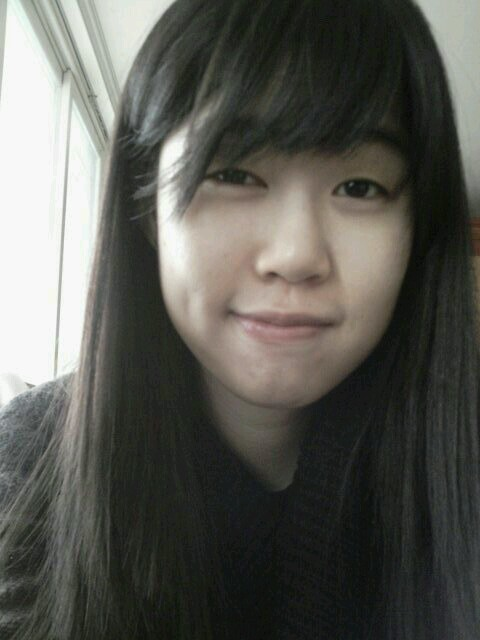
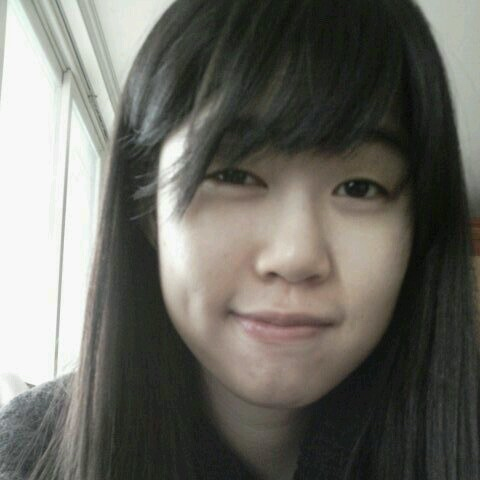
[PROJECT-WAR][1.0.0-SNAPSHOT][전경훈] [BT] SP-63 #time 1h #comment <main> -> <section> 태그 변경 및 프로필사진 사이즈변경 [RV] +review SR @sonhoseong

diff --git a/trunk/development-standard/standard-projects/project-war/src/main/webapp/committer.html b/trunk/development-standard/standard-projects/project-war/src/main/webapp/committer.html
@@ -461,7 +461,7 @@
 					</div>
 				</div>
 			</noscript>
-			<main id="template-customer-login-liquid" class="clearfix" role="main">
+			<section class="clearfix" >
 				<div class="container">
 					<div class="one-whole">
 						<p class="special-header animate-in" data-anim-type="fade-in" data-anim-delay="0">Comitter</p>
@@ -1114,7 +1114,7 @@
 						</div>
 					</div>
 				</div>
-			</main>
+			</section>
 			<footer>
 				<div id="footer" class="tm-larger animate-in" data-anim-type="fade-in" data-anim-delay="0">
 					<div class="container">
@@ -1164,7 +1164,6 @@
 											<span>Follow Us</span>
 										</h4>
 										<div class="content">
-											<p class="text"></p>
 											<div id="social-icons">
 												<span class="tip-t-fade" data-tooltip="Facebook"><a
 													href="http://www.facebook.com" target="_self"><i

diff --git a/trunk/development-standard/standard-projects/project-war/src/main/webapp/baroBoardDemo.html b/trunk/development-standard/standard-projects/project-war/src/main/webapp/baroBoardDemo.html
@@ -422,7 +422,7 @@
 					</div>
 				</div>
 			</noscript>
-			<main id="template-article-liquid" class="clearfix" role="main" itemscope itemtype="http://schema.org/Article"><nav>
+			<section class="clearfix" >
 					<div class="container bm-medium">
 						<div class="one-whole">
 							<div class="no-display">article</div>
@@ -446,7 +446,7 @@
 						</div>
 					</div>
 				</article>
-			</main>
+			</section>
 			<footer>
 				<div id="footer" class="tm-larger animate-in" data-anim-type="fade-in" data-anim-delay="0">
 					<div class="container">

diff --git a/trunk/development-standard/standard-projects/project-war/src/main/webapp/baroBoardLicence.html b/trunk/development-standard/standard-projects/project-war/src/main/webapp/baroBoardLicence.html
@@ -422,7 +422,7 @@
 					</div>
 				</div>
 			</noscript>
-			<main id="template-article-liquid" class="clearfix" role="main" itemscope itemtype="http://schema.org/Article">
+			<section class="clearfix" >
 				<nav>
 					<div class="container bm-medium">
 						<div class="one-whole">
@@ -633,7 +633,7 @@ limitations under the License.
 						</div>
 					</div>
 				</article>
-			</main>
+			</section>
 			<footer>
 				<div id="footer" class="tm-larger animate-in" data-anim-type="fade-in" data-anim-delay="0">
 					<div class="container">

diff --git a/trunk/development-standard/standard-projects/project-war/src/main/webapp/313DevALM.html b/trunk/development-standard/standard-projects/project-war/src/main/webapp/313DevALM.html
@@ -422,7 +422,7 @@
 					</div>
 				</div>
 			</noscript>
-			<main id="template-article-liquid" class="clearfix" role="main" itemscope itemtype="http://schema.org/Article">
+			<section class="clearfix" >
 				<nav>
 					<div class="container bm-medium">
 						<div class="one-whole">
@@ -474,7 +474,7 @@
 						</div>
 					</div>
 				</article>
-			</main>
+			</section>
 			<footer>
 				<div id="footer" class="tm-larger animate-in" data-anim-type="fade-in" data-anim-delay="0">
 					<div class="container">

diff --git a/trunk/development-standard/standard-projects/project-war/src/main/webapp/313DevCI.html b/trunk/development-standard/standard-projects/project-war/src/main/webapp/313DevCI.html
@@ -422,7 +422,7 @@
 					</div>
 				</div>
 			</noscript>
-			<main id="template-article-liquid" class="clearfix" role="main" itemscope itemtype="http://schema.org/Article">
+			<section class="clearfix" >
 				<nav>
 					<div class="container bm-medium">
 						<div class="one-whole">
@@ -484,7 +484,7 @@
 						</div>
 					</div>
 				</article>
-			</main>
+			</section>
 			<footer>
 				<div id="footer" class="tm-larger animate-in" data-anim-type="fade-in" data-anim-delay="0">
 					<div class="container">

diff --git a/trunk/development-standard/standard-projects/project-war/src/main/webapp/baroBoardConcept.html b/trunk/development-standard/standard-projects/project-war/src/main/webapp/baroBoardConcept.html
@@ -422,7 +422,7 @@
 					</div>
 				</div>
 			</noscript>
-			<main id="template-article-liquid" class="clearfix" role="main" itemscope itemtype="http://schema.org/Article">
+			<section class="clearfix" >
 				<nav>
 					<div class="container bm-medium">
 						<div class="one-whole">
@@ -447,7 +447,7 @@
 						</div>
 					</div>
 				</article>
-			</main>
+			</section>
 			<footer>
 				<div id="footer" class="tm-larger animate-in" data-anim-type="fade-in" data-anim-delay="0">
 					<div class="container">

diff --git a/trunk/development-standard/standard-projects/project-war/src/main/webapp/baroBoardDownload.html b/trunk/development-standard/standard-projects/project-war/src/main/webapp/baroBoardDownload.html
@@ -422,7 +422,7 @@
 					</div>
 				</div>
 			</noscript>
-			<main id="template-article-liquid" class="clearfix" role="main" itemscope itemtype="http://schema.org/Article">
+			<section class="clearfix" >
 				<nav>
 					<div class="container bm-medium">
 						<div class="one-whole">
@@ -447,7 +447,7 @@
 						</div>
 					</div>
 				</article>
-			</main>
+			</section>
 			<footer>
 				<div id="footer" class="tm-larger animate-in" data-anim-type="fade-in" data-anim-delay="0">
 					<div class="container">

diff --git a/trunk/development-standard/standard-projects/project-war/src/main/webapp/baroBoardFuction.html b/trunk/development-standard/standard-projects/project-war/src/main/webapp/baroBoardFuction.html
@@ -422,7 +422,7 @@
 					</div>
 				</div>
 			</noscript>
-			<main id="template-article-liquid" class="clearfix" role="main" itemscope itemtype="http://schema.org/Article">
+			<section class="clearfix" >
 				<nav>
 					<div class="container bm-medium">
 						<div class="one-whole">
@@ -447,7 +447,7 @@
 						</div>
 					</div>
 				</article>
-			</main>
+			</section>
 			<footer>
 				<div id="footer" class="tm-larger animate-in" data-anim-type="fade-in" data-anim-delay="0">
 					<div class="container">

diff --git a/trunk/development-standard/standard-projects/project-war/src/main/webapp/baroBoardOverView.html b/trunk/development-standard/standard-projects/project-war/src/main/webapp/baroBoardOverView.html
@@ -422,7 +422,7 @@
 					</div>
 				</div>
 			</noscript>
-			<main id="template-article-liquid" class="clearfix" role="main" itemscope itemtype="http://schema.org/Article">
+			<section class="clearfix" >
 				<nav>
 					<div class="container bm-medium">
 						<div class="one-whole">
@@ -549,7 +549,7 @@
 						</div>
 					</div>
 				</article>
-			</main>
+			</section>
 			<footer>
 				<div id="footer" class="tm-larger animate-in" data-anim-type="fade-in" data-anim-delay="0">
 					<div class="container">

diff --git a/trunk/development-standard/standard-projects/project-war/src/main/webapp/baroBoardReleaseNote.html b/trunk/development-standard/standard-projects/project-war/src/main/webapp/baroBoardReleaseNote.html
@@ -422,7 +422,7 @@
 					</div>
 				</div>
 			</noscript>
-			<main id="template-article-liquid" class="clearfix" role="main" itemscope itemtype="http://schema.org/Article">
+			<section class="clearfix" >
 				<nav>
 					<div class="container bm-medium">
 						<div class="one-whole">
@@ -464,7 +464,7 @@
 						</div>
 					</div>
 				</article>
-			</main>
+			</section>
 			<footer>
 				<div id="footer" class="tm-larger animate-in" data-anim-type="fade-in" data-anim-delay="0">
 					<div class="container">

diff --git a/trunk/development-standard/standard-projects/project-war/src/main/webapp/jsTreeApply.html b/trunk/development-standard/standard-projects/project-war/src/main/webapp/jsTreeApply.html
@@ -416,7 +416,7 @@
 					</div>
 				</div>
 			</noscript>
-			<main id="template-article-liquid" class="clearfix" role="main" itemscope itemtype="http://schema.org/Article">
+			<section class="clearfix" >
 				<nav>
 					<div class="container bm-medium">
 						<div class="one-whole">
@@ -478,7 +478,7 @@
 						</div>
 					</div>
 				</article>
-			</main>
+			</section>
 			<footer>
 				<div id="footer" class="tm-larger animate-in" data-anim-type="fade-in" data-anim-delay="0">
 					<div class="container">

diff --git a/trunk/development-standard/standard-projects/project-war/src/main/webapp/jsTreeConcept.html b/trunk/development-standard/standard-projects/project-war/src/main/webapp/jsTreeConcept.html
@@ -416,7 +416,7 @@
 					</div>
 				</div>
 			</noscript>
-			<main id="template-article-liquid" class="clearfix" role="main" itemscope itemtype="http://schema.org/Article">
+			<section class="clearfix" >
 				<nav>
 					<div class="container bm-medium">
 						<div class="one-whole">
@@ -481,7 +481,7 @@
 						</div>
 					</div>
 				</article>
-			</main>
+			</section>
 			<footer>
 				<div id="footer" class="tm-larger animate-in" data-anim-type="fade-in" data-anim-delay="0">
 					<div class="container">
